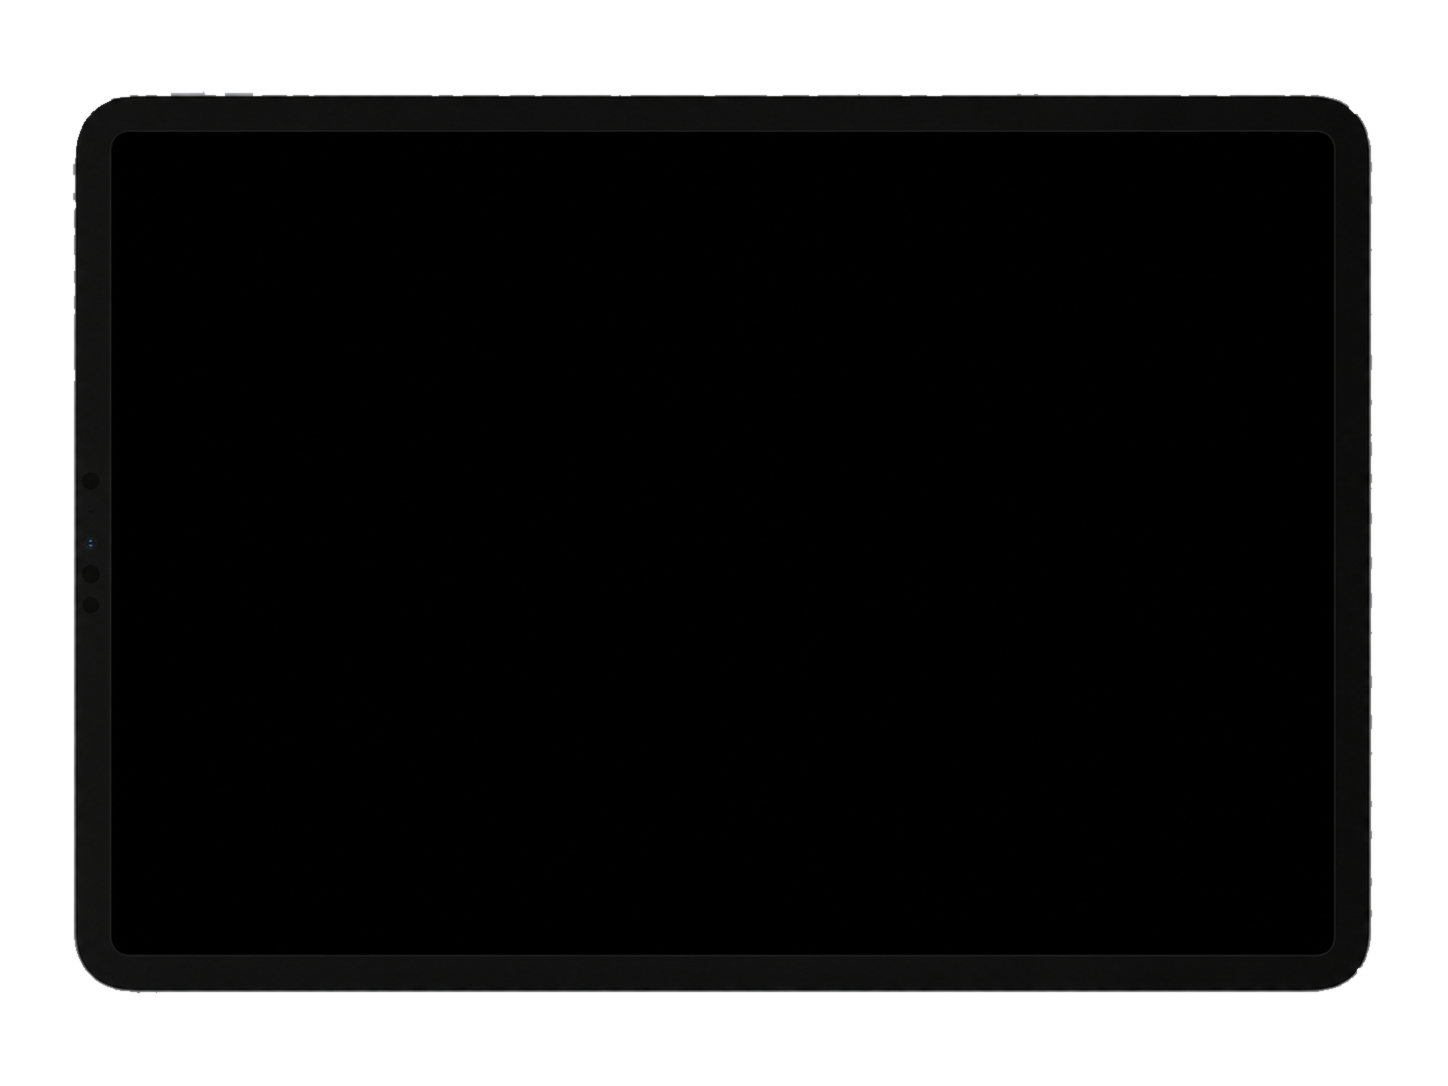
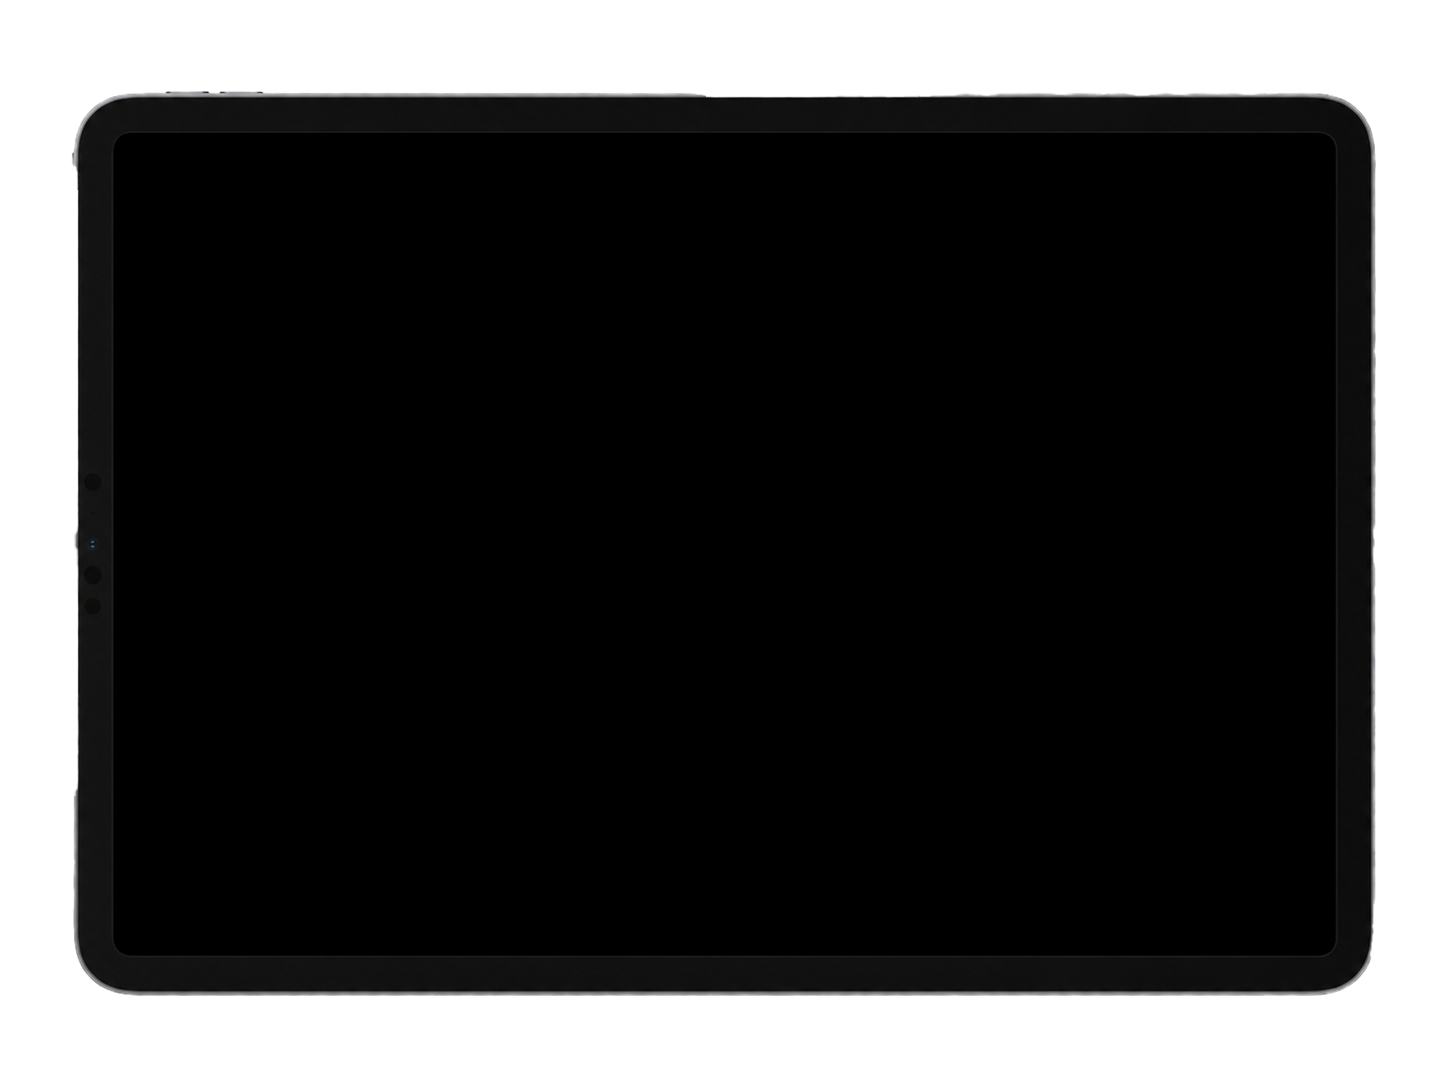
feat(demo-studio): rene høykvalitets device-mockups (Mac/iPad/iPhone)
Erstattet alle tre device-rammene med Daniels rene mockups (transparent
bakgrunn, ingen frynse, hele MacBook-en synlig med korrekt base).
Skjerm-rektanglene presist re-detektert så innholdet havner EKSAKT
innenfor skjermen på alle:
  macbook 1586x992  screen 258,22 1070x714  (hele laptopen)
  ipad    1086x1448 screen 130,114 822x1220
  iphone  1086x1448 screen 248,86 588x1274
  ipad-L  1448x1086 screen 114,134 1220x820 (rotert fra ren iPad)
Synket til Tauri-app + frontend mockup-video-modul.

diff --git a/apps/resolve-script-manager/src/components/demo-studio/deviceFrames.ts b/apps/resolve-script-manager/src/components/demo-studio/deviceFrames.ts
@@ -22,30 +22,30 @@ export interface FrameSpec {
   radius: number;
 }
 
-// Verdier fra piksel-deteksjon (deviceFrames i frontend):
-//   iphone  1086x1448  screen 248,85 588x1275
-//   ipad    1086x1448  screen 131,112 823x1222
-//   ipad-L  1448x1086  screen 112,131 1222x823  (ipad rotert 90° CCW)
-//   macbook 1586x932   screen 258,22 1070x712  (skjerm re-detektert presist)
+// Rene mockups (Daniels Desktop-kilder, 2026-06-03), skjerm presist detektert:
+//   iphone  1086x1448  screen 248,86 588x1274
+//   ipad    1086x1448  screen 130,114 822x1220
+//   ipad-L  1448x1086  screen 114,134 1220x820  (ipad rotert 90° CCW)
+//   macbook 1586x992   screen 258,22 1070x714   (HELE laptopen, ingen beskjæring)
 export const DEVICE_FRAMES: Record<FrameVariant, FrameSpec> = {
   iphone: {
     src: iphoneFrame, aspect: 1086 / 1448,
-    screen: { x: 248 / 1086, y: 85 / 1448, w: 588 / 1086, h: 1275 / 1448 },
+    screen: { x: 248 / 1086, y: 86 / 1448, w: 588 / 1086, h: 1274 / 1448 },
     radius: 56 / 1086,
   },
   ipad: {
     src: ipadFrame, aspect: 1086 / 1448,
-    screen: { x: 131 / 1086, y: 112 / 1448, w: 823 / 1086, h: 1222 / 1448 },
+    screen: { x: 130 / 1086, y: 114 / 1448, w: 822 / 1086, h: 1220 / 1448 },
     radius: 20 / 1086,
   },
   ipad_landscape: {
     src: ipadLandscapeFrame, aspect: 1448 / 1086,
-    screen: { x: 112 / 1448, y: 131 / 1086, w: 1222 / 1448, h: 823 / 1086 },
+    screen: { x: 114 / 1448, y: 134 / 1086, w: 1220 / 1448, h: 820 / 1086 },
     radius: 20 / 1448,
   },
   macbook: {
-    src: macbookFrame, aspect: 1586 / 932,
-    screen: { x: 258 / 1586, y: 22 / 932, w: 1070 / 1586, h: 712 / 932 },
+    src: macbookFrame, aspect: 1586 / 992,
+    screen: { x: 258 / 1586, y: 22 / 992, w: 1070 / 1586, h: 714 / 992 },
     radius: 6 / 1586,
   },
 };

diff --git a/frontend/client/src/components/role-room/post-agent/mockup-video/deviceFrames.ts b/frontend/client/src/components/role-room/post-agent/mockup-video/deviceFrames.ts
@@ -33,10 +33,10 @@ import ipadLandscapeFrame from './frames/ipad-landscape.png';
 import macbookFrame from './frames/macbook.png';
 
 export const DEVICE_FRAMES: Record<DeviceVariant, FrameSpec> = {
-  iphone: { src: iphoneFrame, frameW: 1086, frameH: 1448, sx: 248, sy: 85, sw: 588, sh: 1275, screenRadius: 56 },
-  ipad: { src: ipadFrame, frameW: 1086, frameH: 1448, sx: 131, sy: 112, sw: 823, sh: 1222, screenRadius: 20 },
-  ipad_landscape: { src: ipadLandscapeFrame, frameW: 1448, frameH: 1086, sx: 112, sy: 131, sw: 1222, sh: 823, screenRadius: 20 },
-  macbook: { src: macbookFrame, frameW: 1586, frameH: 932, sx: 258, sy: 22, sw: 1070, sh: 712, screenRadius: 6 },
+  iphone: { src: iphoneFrame, frameW: 1086, frameH: 1448, sx: 248, sy: 86, sw: 588, sh: 1274, screenRadius: 56 },
+  ipad: { src: ipadFrame, frameW: 1086, frameH: 1448, sx: 130, sy: 114, sw: 822, sh: 1220, screenRadius: 20 },
+  ipad_landscape: { src: ipadLandscapeFrame, frameW: 1448, frameH: 1086, sx: 114, sy: 134, sw: 1220, sh: 820, screenRadius: 20 },
+  macbook: { src: macbookFrame, frameW: 1586, frameH: 992, sx: 258, sy: 22, sw: 1070, sh: 714, screenRadius: 6 },
 };
 
 /** Forholdstall (bredde/høyde) for hele frame-PNG-en. */
